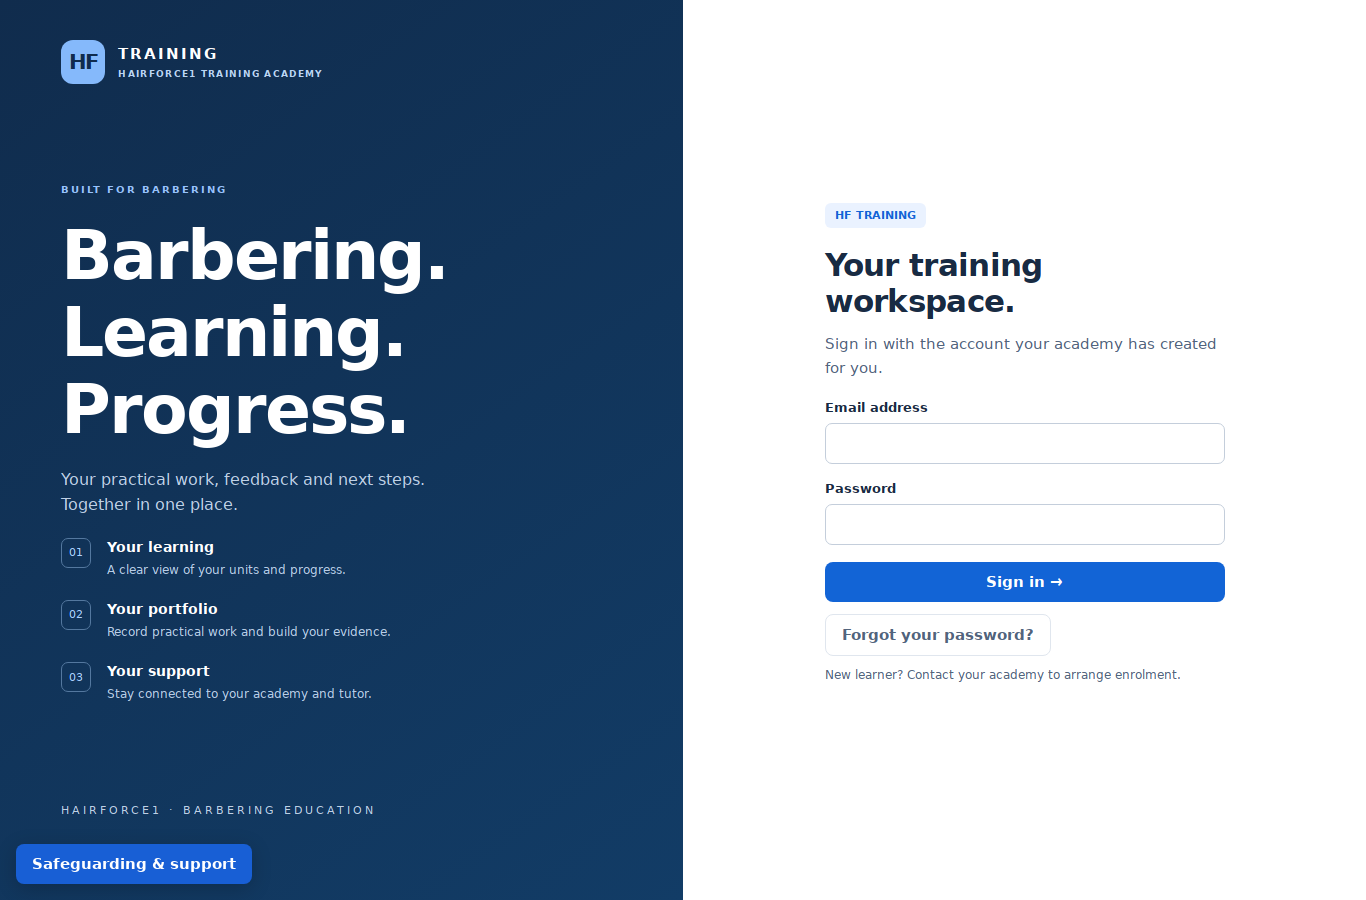
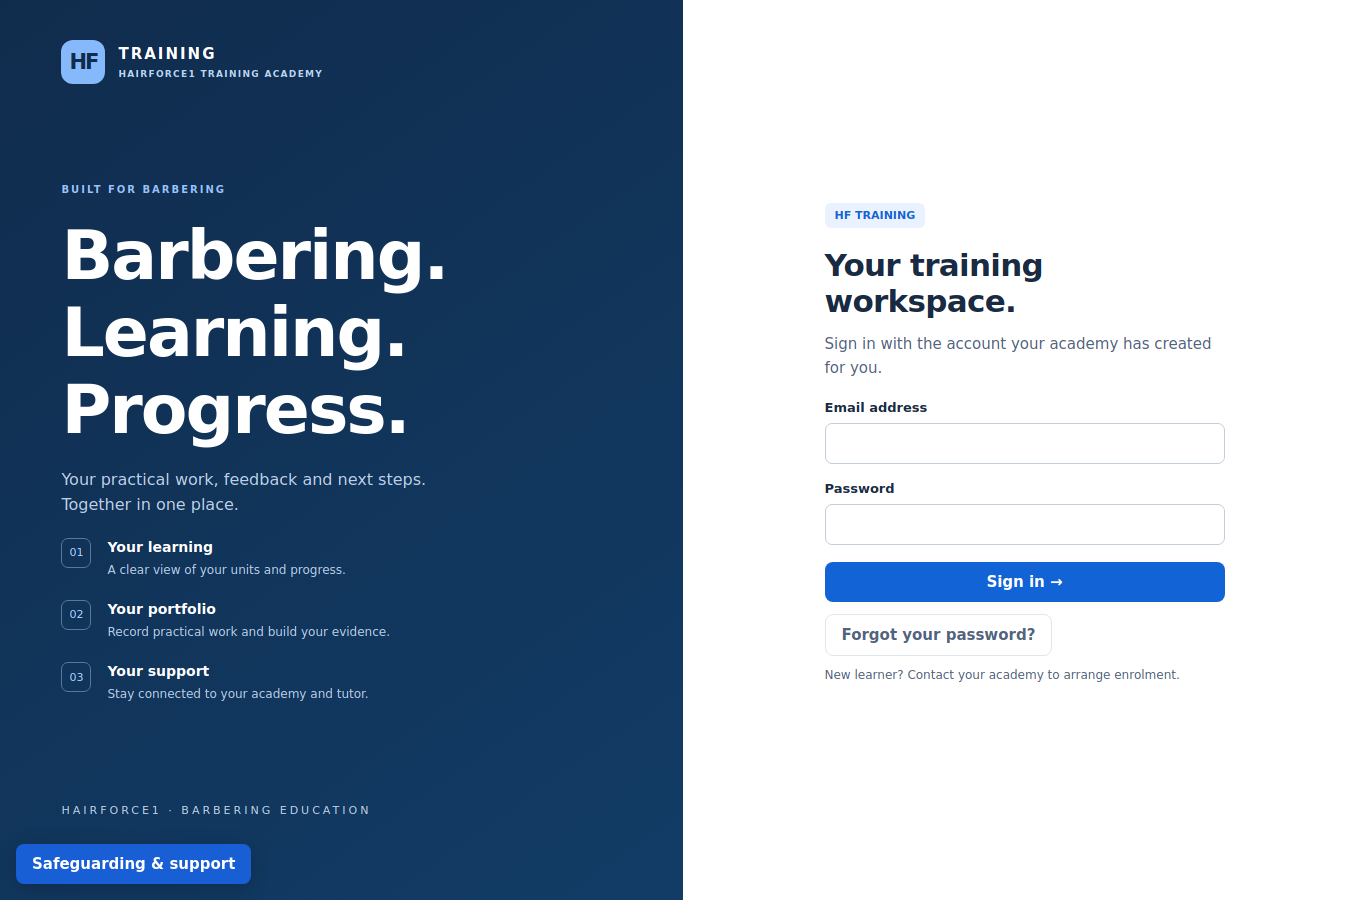
Add files via upload

diff --git a/docs/HANDOVER.md b/docs/HANDOVER.md
@@ -1,3 +1,22 @@
+# Update handover — 29 September 2026
+
+The current release instructions are in `UPDATE-INSTRUCTIONS.txt` at the project root. This section supersedes conflicting behaviour described in the historical handover below.
+
+- Profiles now support `signup`, immutable creation timestamp `createdAt` for new accounts, `start`, and explicit `tutors` IDs. Missing `tutors` on legacy profiles preserves academy access. An empty array means no tutor access. Both the named tutor and academy must match. Administrators and IQA retain their existing access.
+- `server/learning.mjs` holds shared date, password, progress, calendar and placement calculations. Review periods are 28 days for VRQ and 84 for NVQ, with explicit recorded next-review dates honoured. Reminders are in-app only.
+- Practical records carry `units` and `{unit,frameworkId,checks}` criterion mappings. Immutable framework records preserve wording/version. Assessor confirmations must be a subset of learner-signed claims. Verified criterion progress requires achieved assessment plus an independent signed IQA record. New final unit sign-offs require full verified coverage of the latest framework; IQA final verification advances finalised-unit progress. Old unmapped evidence is retained but does not silently acquire criterion credit.
+- Attendance is append-only; the most recent record per learner/day is shown and counted. Check-in is a separate unconfirmed record. Batch attendance validates all requested learner permissions before writing and returns saved/failed IDs for retry.
+- Work placement is separate from academy attendance and learning-hour totals. One active log per learner/day; after a tutor returns it, a new signed replacement references the earlier log. Weekly targets count separate days, and approved totals exclude unconfirmed/returned logs. The three six-hour-day target is this academy’s VRQ configuration, not a claim about all VRQ qualifications.
+- My account exposes own basic details and limited contact edits; role/email/course/academy cannot be changed through contactUpdate.
+- Password changes require 8–128 characters, uppercase A–Z and a digit, preserve whitespace, and accept existing shorter current passwords. Both UI and backend enforce new-password rules. The direct Appwrite recovery route also requires matching project password-strength settings (manual console configuration).
+- Resource attachments use the existing private bucket and course-scoped authorised download. Editable original starter texts are provided in the admin publishing form; nothing is automatically seeded into live records.
+- The new deployment workflow updates the existing function with a temporary functions.read/functions.write key, without provisioning or changing data/schema/permissions.
+- The build now uses callback string replacements so JavaScript dollar sequences are not interpreted as replacement metacharacters when embedding the bundle in HTML.
+
+Operational limits: no email/push reminder scheduler; no separate tutor-versus-assessor role split; no imported approved qualification criteria; no automated certification. Checklist wording must explicitly represent any required repeated observations/ranges—percentages count checklist entries, not automatic interpretation of awarding-body rules. Unit frameworks can be republished but old signed records keep the old version, so new framework coverage starts separately. Raw audit records remain in exports. Large rosters currently read records per assigned learner and should be indexed/paginated before substantial growth. Single-record payload limit remains 14,000 characters and file limit 1 MB. Pending/approved placement logs cannot be edited; a tutor must return a pending log to enable a signed replacement. An already approved decision is immutable.
+
+## Historical handover
+
 # HF Training — developer handover
 
 This package is a first Appwrite-backed deployment candidate. It has local policy and simulated browser coverage, but has not been deployed to or tested against the owner's Appwrite project. A working cloud integration and a security/privacy review remain release gates. Do not describe it as a complete, validated learning-management product.
@@ -64,3 +83,6 @@ Setup is deliberately explicit through workflow_dispatch. Never add secrets to c
 | New function | hfapi |
 
 Region endpoint: https://fra.cloud.appwrite.io/v1
+
+
+The supplied consultation and VRQ marking sheets are included in this revision. See docs/ASSESSMENT-SHEET-NOTES.md (ASSESSMENT-SHEET-NOTES.md within docs) for coverage, marking rules and missing requirements. The source module is server/assessment-sheets.mjs.

diff --git a/docs/ASSESSMENT-SHEET-NOTES.md b/docs/ASSESSMENT-SHEET-NOTES.md
@@ -1,0 +1,33 @@
+# Supplied assessment sheets — 29 September 2026
+
+Implemented from the eight photographs supplied by the academy. Editions and qualification approval numbers were not visible. These are VRQ presets, not assumed NVQ requirements.
+
+| Unit | Preset | Marking |
+|---|---|---|
+| 202 | Tasks 1a chart, 1b poster, 1c leaflet, 1d chart OR approved online test | Completion/pass decisions; no practical task |
+| 203 | Shampoo/conditioning, styling, one other consultation service | Nine criteria per service; criteria 1, 2, 7 score 1–3; others 1. Pass 9–10, Merit 11–13, Distinction 14–15 |
+| 204 | Dry, product build-up/oily, normal hair | Nine criteria per service; criteria 2, 4, 8, 9 score 1–3. Pass 9–10, Merit 11–14, Distinction 15–17 |
+| 210 | Uniform layered and graduated looks | All 15 criteria per style; criteria 2, 3, 5, 14, 15 score 1–3. Pass 15–17, Merit 18–22, Distinction 23–25 |
+| 211 | Tapered beardline, full beard outline, moustache only | Thirteen criteria per service; criteria 2, 3, 5, 12, 13 score 1–3. Pass 13–15, Merit 16–20, Distinction 21–23 |
+
+Unmarked criteria remain incomplete. Zero means not yet achieved and prevents a pass, regardless of the total. Grades apply to each service observation, not to the entire qualification. Marks cannot exceed the source scale. A learner’s claim is separate from the assessor’s confirmation and marks.
+
+The consultation form includes client reference and new/regular status, characteristics, hair/scalp condition, growth, products, face shape, tools, looks, techniques, outlines, finish, contraindication answers and aftercare. Unanswered contraindications stay Not assessed. The signed record retains the choices. Images are uploaded privately and can be linked to multi-unit evidence.
+
+The academy planning sheet’s extra looks (including partial beard and eyebrow shape) are retained as descriptive choices; they do not substitute for the logbook service ranges. Its heading 210 Style & Finish / 209 Cutting conflicts with the photographed VRQ logbook’s Unit 210 cutting. The preset follows the photographed VRQ logbook. The planning sheet’s shaving section is not added as an enrolled VRQ unit without its approved requirements.
+
+## Still needed
+
+- Full knowledge requirements for practical units, Unit 202 task briefs, and any required further observations/ranges.
+- Qualification title, code and edition to confirm the applicable version.
+- Separate NVQ sheets for the NVQ route.
+
+All photo presets have unitCompletionReady=false: practical criteria can earn independently verified criterion coverage, but final whole-unit sign-off stays blocked. An administrator can publish a complete, centre-approved manual framework once the full requirements are established. Previous signed versions stay intact; new versions do not automatically transfer old criterion credit. Never claim the photo presets alone establish qualification completion.
+
+## Deployment and validation
+
+See UPDATE-INSTRUCTIONS.txt. Upload server/assessment-sheets.mjs along with the other backend files before running the update workflow; then publish the rebuilt index.html. No live deployment or database mutation was performed while preparing this package.
+
+34 automated tests and the simulated browser workflow passed. The new browser journey publishes Unit 211, captures signed consultation information, submits the thirteen tapered-beardline criteria and verifies assessor marks total 23 with Distinction. Appwrite calls are simulated with the real domain rules and fictional accounts; live project settings still need checking after deployment.
+
+Unit 210 continuation received and added: criteria 12 finished cut/client satisfaction, 13 safe and hygienic practice, 14 aftercare, 15 professional communication. Practical grading is enabled. Old partial checklist versions remain unchanged; publish the complete preset as a new version before new evidence is submitted.

diff --git a/docs/SOURCES.md b/docs/SOURCES.md
@@ -14,3 +14,11 @@
 - Samaritans: https://www.samaritans.org/how-we-can-help/contact-samaritan/
 
 VRQ unit selection is the owner's requested scope, not a claim that five units constitute the full award. 6008-04 qualification tracking is distinct from the complete apprenticeship standard and end-point assessment.
+
+## Update references checked 29 September 2026
+
+- Appwrite authentication / password strength: https://appwrite.io/docs/advanced/security/authentication
+- City & Guilds 6008 qualification and approved logbook/handbook links: https://www.cityandguilds.com/qualifications-and-apprenticeships/hairdressing/hairdressing/6008-hairdressing-and-barbering-nvq
+- City & Guilds 3002 qualification, downloadable barbering unit logbooks and assessment pack: https://www.cityandguilds.com/qualifications-and-apprenticeships/hairdressing/hairdressing/3002-hairdressing
+
+The update does not copy those logbooks into the application. It lets the centre publish its approved, versioned checklists. Generic consultation prompts and editable resource starter texts are original teaching aids, not official assessment criteria. The user's specified 28/84-day review schedule and three-day/six-hour placement target are academy settings, not claims that the linked awarding-body documents mandate them.
